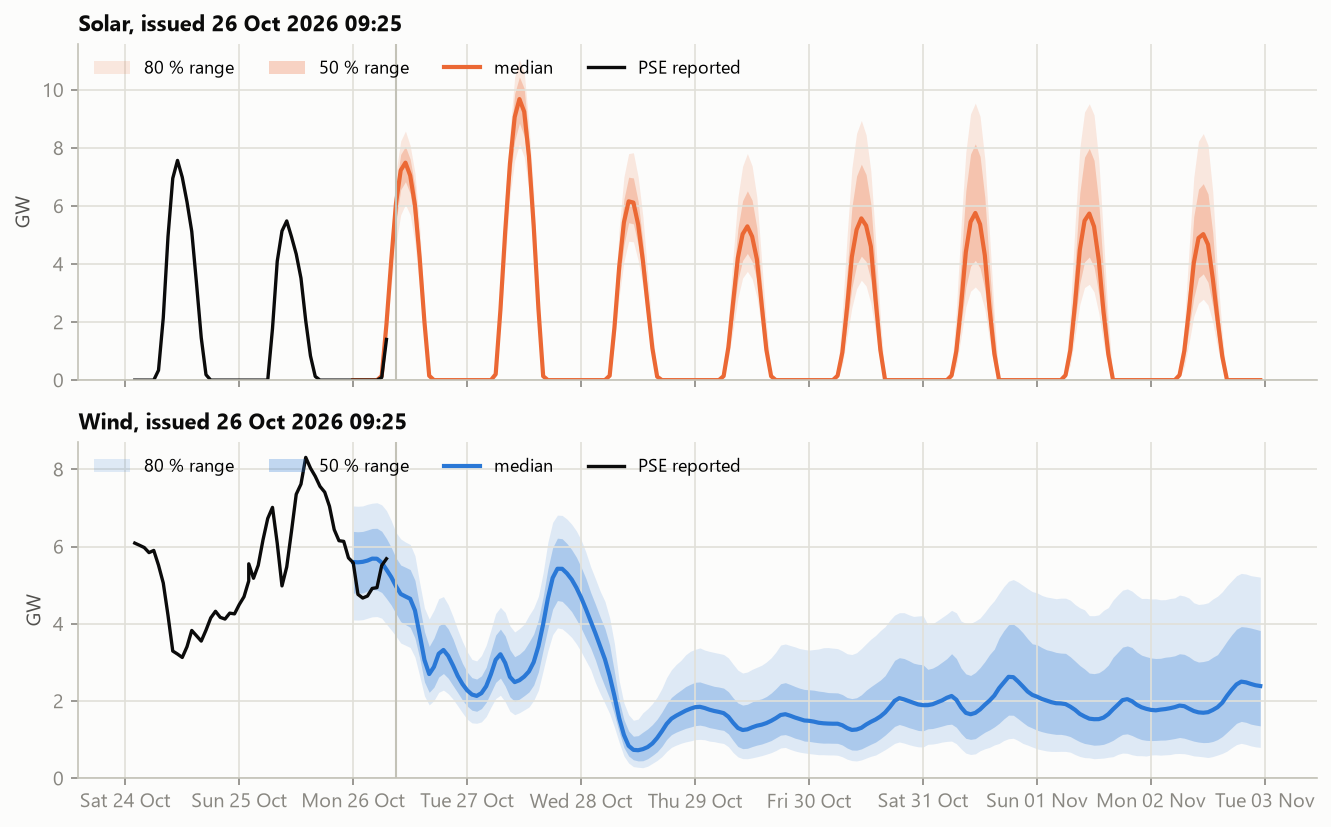
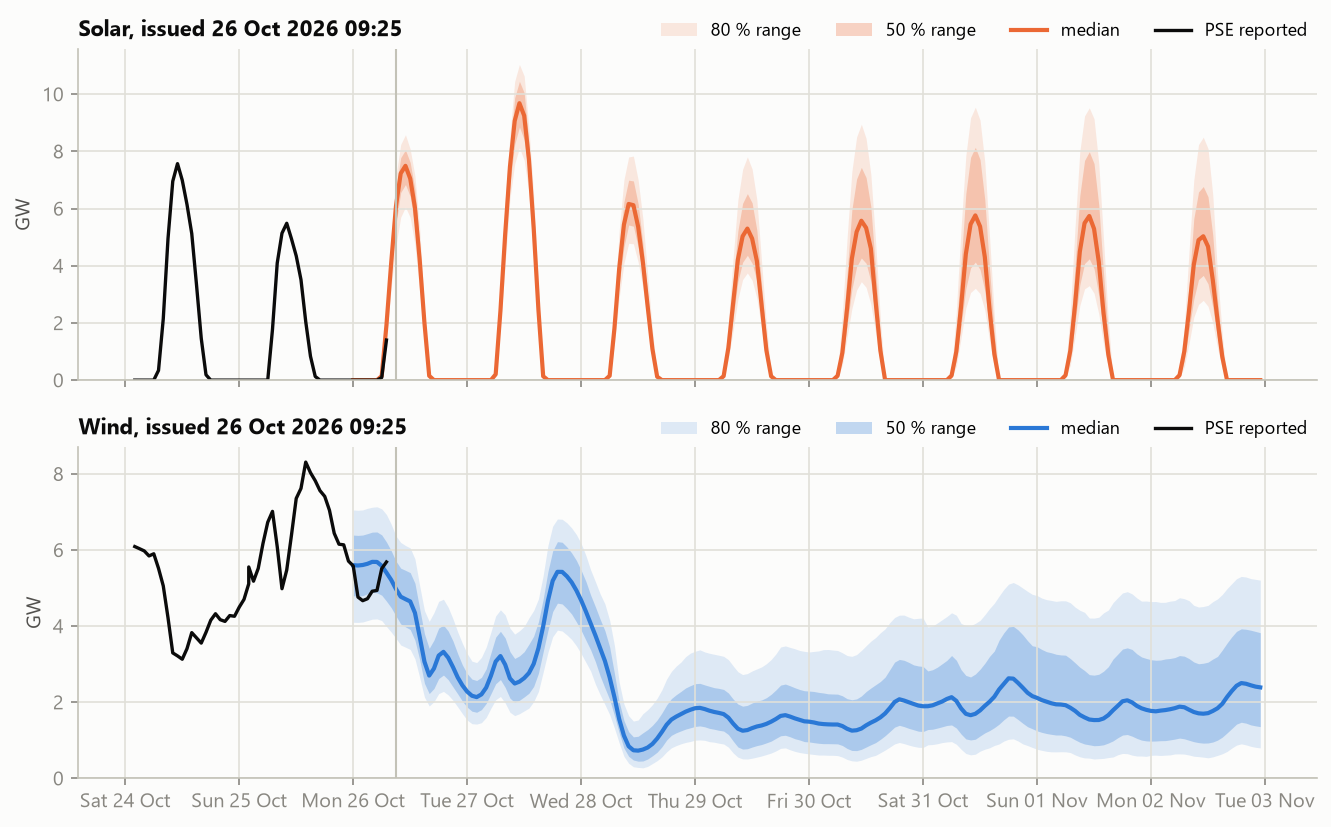
Charts: legends above the plots, only the scored leads on the skill chart
The fan and hindcast legends covered the wind peaks; they now sit right of the panel titles. The skill chart
drops the empty D+7 column and has one legend for the three panels. Same data in all three images.

diff --git a/src/res_forecast/plots.py b/src/res_forecast/plots.py
@@ -59,7 +59,8 @@ def fan(live, actual: pd.DataFrame | None, path: Path):
         ax.set_ylabel("GW")
         ax.set_ylim(bottom=0)
         ax.set_title(f"{NAME[tech]}, issued {live.issue.tz_convert(TZ):%d %b %Y %H:%M}", loc="left")
-        ax.legend(loc="upper left", ncols=4, fontsize=8.5)
+        # above the plot, right of the title, so it never covers a peak
+        ax.legend(loc="lower right", bbox_to_anchor=(1, 1), ncols=4, fontsize=8.5, borderaxespad=0.1)
     axes[1].xaxis.set_major_formatter(mdates.DateFormatter("%a %d %b"))
     fig.tight_layout()
     _save(fig, path)
@@ -83,10 +84,12 @@ def hindcast_skill(summary: pd.DataFrame, path: Path, products=("multi", "ecmwf_
     axes[2].set_title("Share inside the 80 % range, %", loc="left")
     axes[2].axhline(80, color=COL["ink2"], lw=1)
     axes[2].set_ylim(60, 90)
+    leads = sorted(int(x) for x in summary["lead"].unique())
     for ax in axes:
-        ax.set_xticks(range(1, 8), [f"D+{i}" for i in range(1, 8)])
-    axes[0].legend(fontsize=8)
-    fig.tight_layout()
+        ax.set_xticks(leads, [f"D+{i}" for i in leads])
+        ax.set_xlim(leads[0] - 0.3, leads[-1] + 0.3)
+    fig.legend(*axes[0].get_legend_handles_labels(), loc="lower center", ncols=4, fontsize=8.5)
+    fig.tight_layout(rect=(0, 0.08, 1, 1))
     _save(fig, path)
 
 
@@ -105,7 +108,7 @@ def hindcast_example(rows: pd.DataFrame, product: str, start, days: int, path: P
         ax.set_ylabel("GW")
         ax.set_ylim(bottom=0)
         ax.set_title(f"{NAME[tech]}: day-ahead hindcast vs PSE", loc="left")
-        ax.legend(loc="upper left", ncols=3, fontsize=8.5)
+        ax.legend(loc="lower right", bbox_to_anchor=(1, 1), ncols=3, fontsize=8.5, borderaxespad=0.1)
     axes[1].xaxis.set_major_formatter(mdates.DateFormatter("%d %b"))
     fig.tight_layout()
     _save(fig, path)
